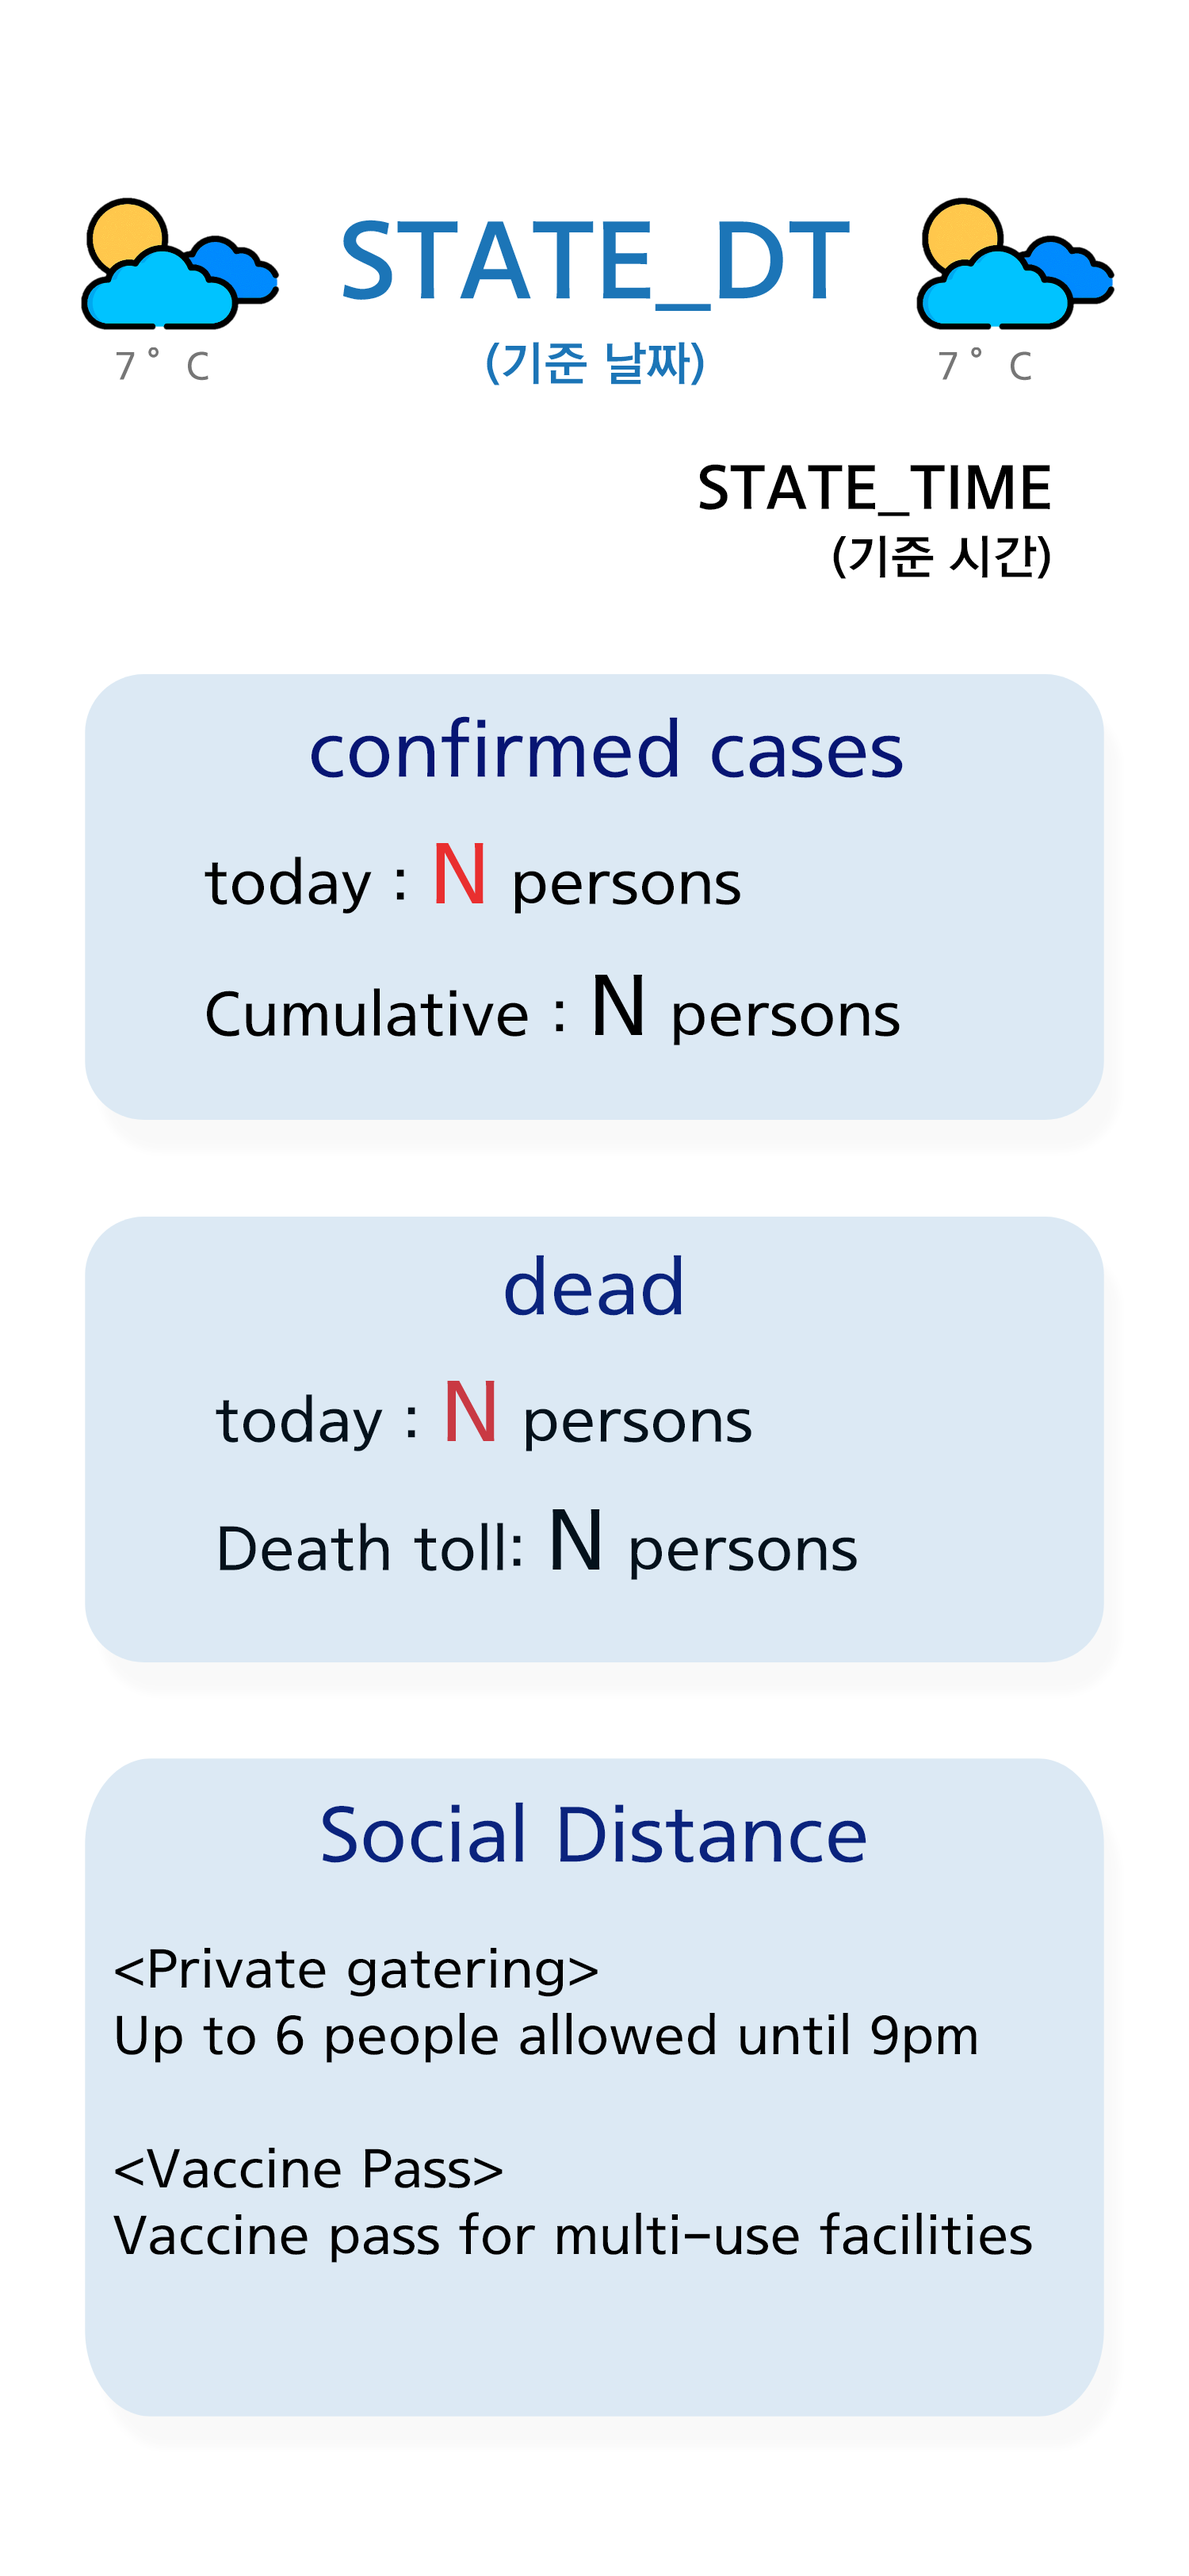
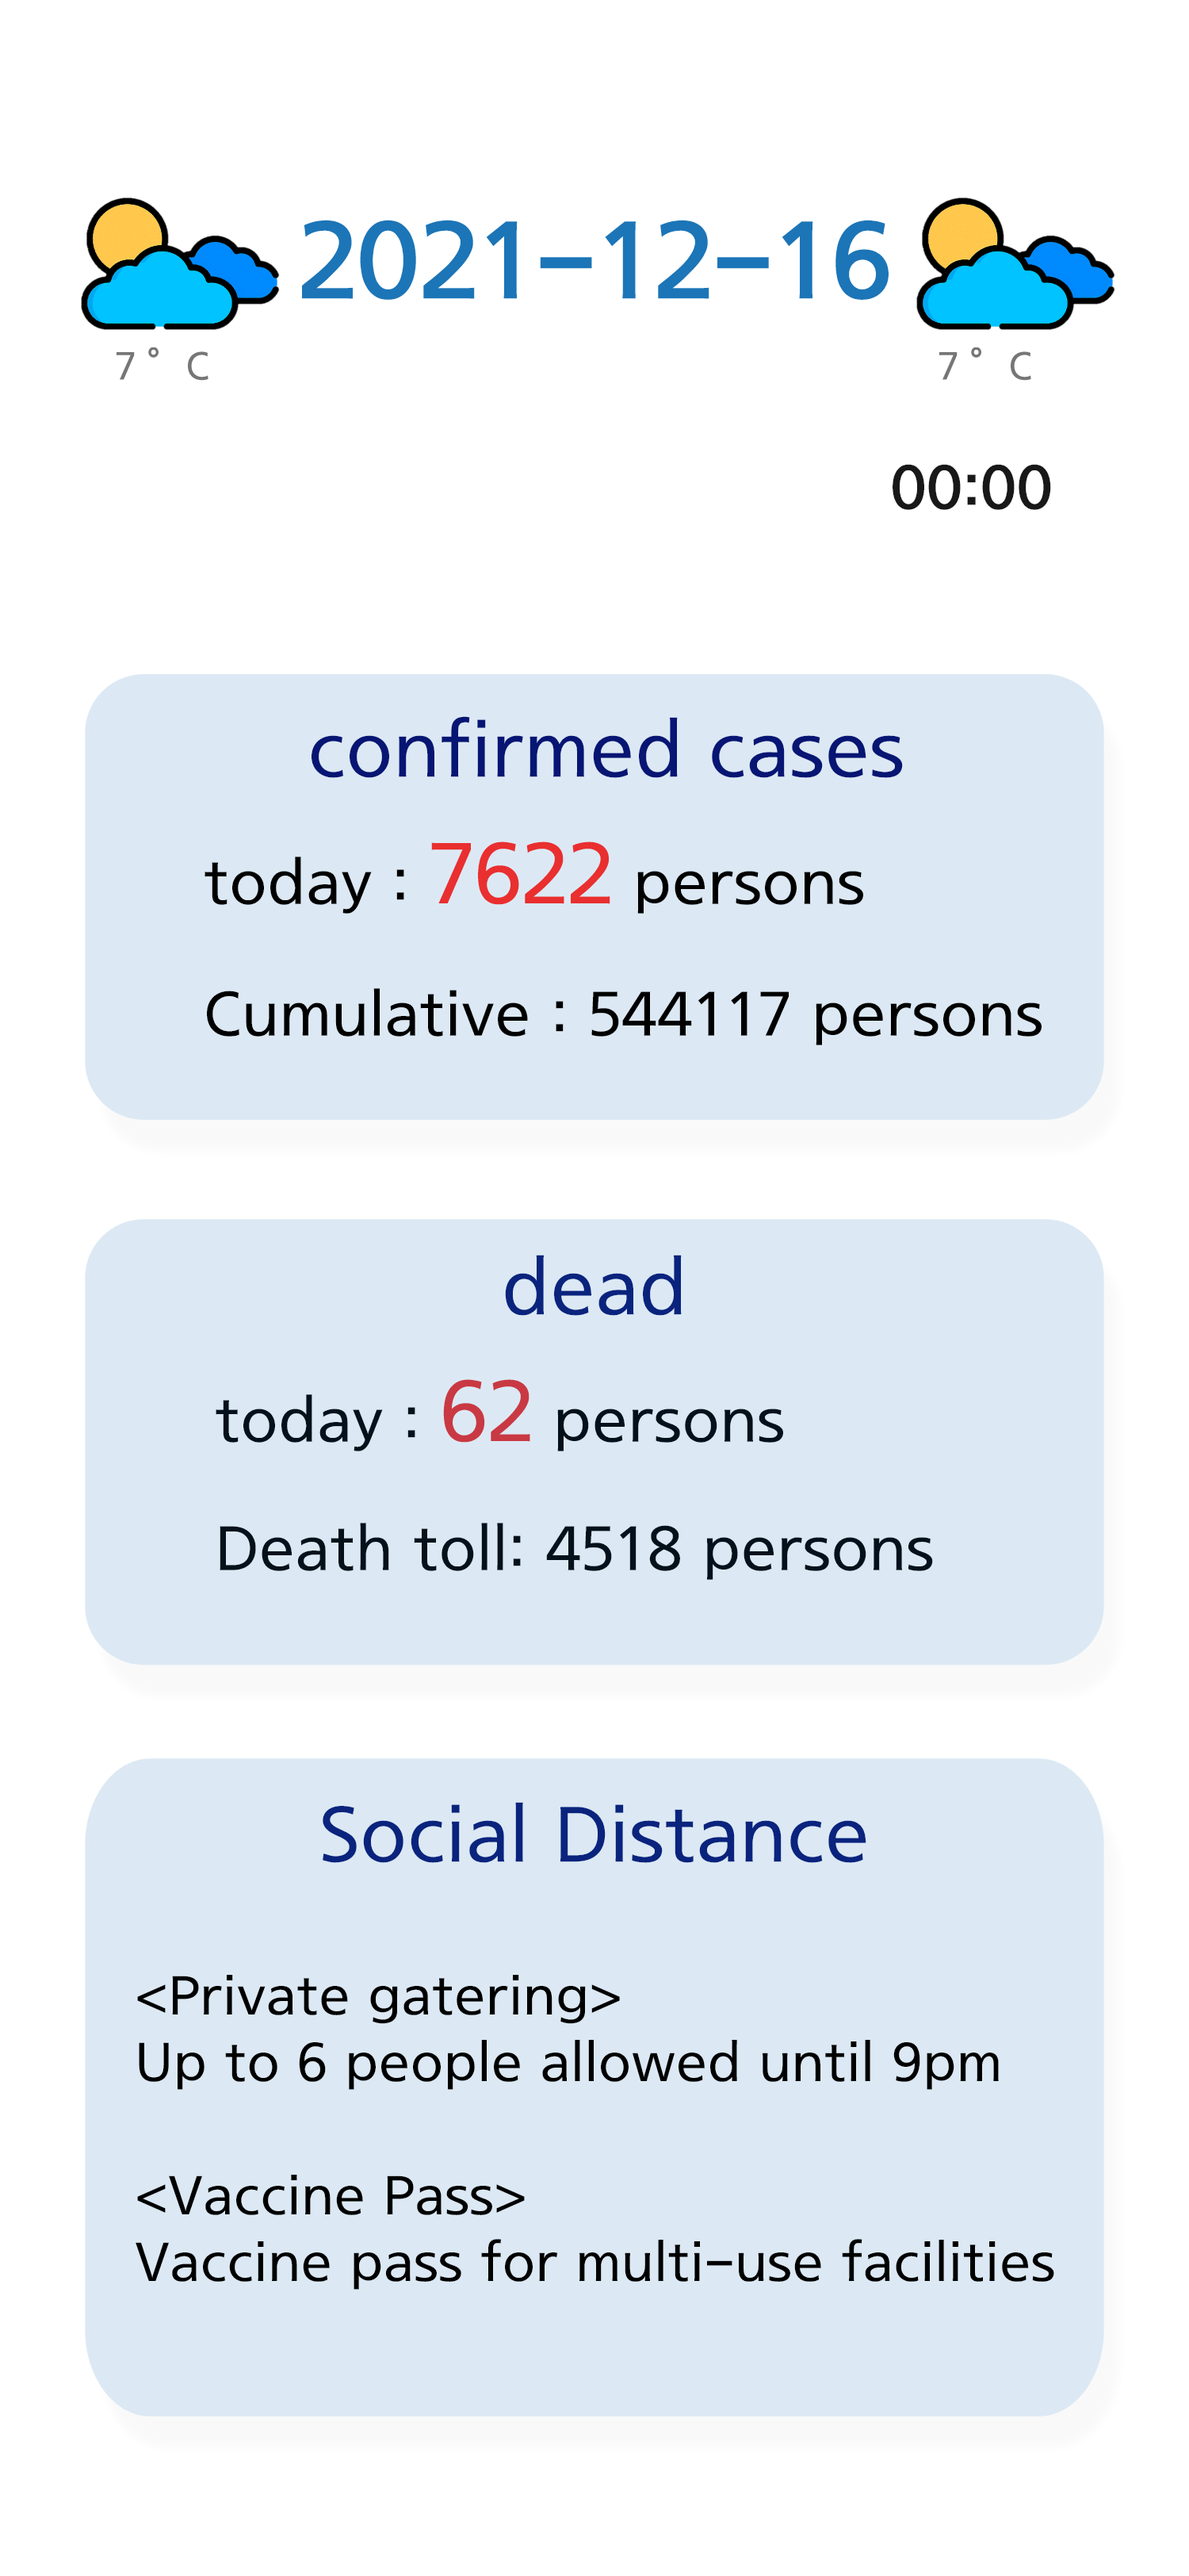
90% finish

diff --git a/TokTok/main.js b/TokTok/main.js
@@ -1,65 +1,38 @@
 import React, {useState, useEffect} from 'react';
-import { TouchableOpacity, Image, StyleSheet, Text, View } from "react-native";
+import { Dimensions, TouchableOpacity, Image, StyleSheet, Text, View } from "react-native";
 import axios from 'axios' ;
 import moment from 'moment';
+import mainImg from './src/res/images/main.png';
 import BackgroundService from 'react-native-background-actions';
 import  AsyncStorage  from "@react-native-async-storage/async-storage";
+import { KeyboardAwareScrollView } from 'react-native-keyboard-aware-scroll-view'
 import * as ReadNfc from './readnfc';
-
 const api_key = '8qB9v%2Ba1OSffsxIZm%2FGe5hCKAclrHZSULnzsQtsCuqLKf%2FGVcB9YEZ4EAiDrkuwQwoH%2F6dm3j9v70BxglJPlJA%3D%3D'
 const nowTime = moment().format('YYYYMMDD')*1;
 const Time = moment().format('YYYY-MM-DD')
 const create_date = nowTime-3;
 const end_date = nowTime;
 var parseString = require('react-native-xml2js').parseString;
+const win = Dimensions.get('window');
 
-const styles = StyleSheet.create({
-  container:{
-    flex:1,
-    justifyContent:'space-around',
-    alignItems: 'center',
-    backgroundColor:'white'
-  },
-  maintext:{
-    fontSize: 35,
-    color: '#1a73e8',
-  },
-  button:{
-    justifyContent:'center',
-    alignItems: 'center',
-    width: 250,
-    height: 40,
-    borderRadius: 20,
-    backgroundColor: '#2196f3'
-  },
-
-  input:{
-    borderWidth: 2,
-    borderRadius: 5,
-    justifyContent:'center',
-    alignItems: 'center',
-    width: 250,
-    height: 40,
-    borderRadius: 20,
-  },
-  card:{
-    width: 200,
-    height: 150,
-    justifyContent:'space-around',
-    alignItems: 'center',
-    elevation: 2,
-    backgroundColor:'#fff',
-    borderRadius: 25,
-  },
-  text: {
-    fontSize: 18,
-    textAlign: 'center',
-    color: 'white'
-}
-});
 
 function Main({navigation}){
     const [entiredata, setEntiredata] = useState('')
+
+    const styles = StyleSheet.create({
+      container:{
+        flex:1,
+        justifyContent:'center',
+        hieght:win.height,
+        alignItems: 'center',
+        backgroundColor:'white'
+      },
+      imgs:{
+        resizeMode: 'cover',
+        width: win.width,
+        height: win.height,
+      },
+    });
 
 
     const get_confirmed_case_info = async()=>{
@@ -67,18 +40,14 @@ function Main({navigation}){
         try{
           res = await axios.get(`http://openapi.data.go.kr/openapi/service/rest/Covid19/getCovid19InfStateJson?serviceKey=${api_key}&pageNo=1&numOfRows=10&startCreateDt=${create_date}&endCreateDt=${end_date}`) ;
           parseString(res.data, function(err, result){
-          setEntiredata((JSON.parse(JSON.stringify(res.data.response.body.items.item))),getData());
+          setEntiredata((JSON.parse(JSON.stringify(res.data.response.body.items.item))));
           console.log(JSON.parse(JSON.stringify(res.data)).response.body.items.item)
           })
         }catch(err){
           console.error('에러 ' + err.message);
         }
       }
-      const getData = async() =>{
-        const data = await AsyncStorage.getItem('usrinfo');
-        console.log(JSON.parse(data).name);
-        usrdata= JSON.parse(data);
-      }
+
       const startNfc = async( ) =>{
         await ReadNfc.initNfc();
         ReadNfc.readNdef();
@@ -91,30 +60,9 @@ function Main({navigation}){
 
     if(entiredata != ''){
       return(
-        <View style = {styles.container}>
-          <View>
-           <Text style = {styles.maintext}>{Time}</Text>
-           <Text
-          style={{
-            fontSize: 20,
-            textAlign: 'right',
-          }}
-        > {entiredata[0].stateTime}</Text>
-        </View>
-        <View style={styles.card}>
-          <Text style = {{fontSize : 20, color:'#1a73e8'}}>confirmed cases</Text>
-          <Text>today: <Text style={{color:'red'}}>{entiredata[0].decideCnt - entiredata[1].decideCnt}</Text></Text>
-          <Text>total: {entiredata[0].decideCnt}</Text>
-        </View>
-        <View style={styles.card}>
-          <Text style = {{fontSize : 20, color:'#1a73e8'}}>dead</Text>
-          <Text>today : <Text style={{color:'red'}}>{entiredata[0].deathCnt - entiredata[1].deathCnt}</Text></Text>
-          <Text>total : {entiredata[0].deathCnt}</Text>
-        </View>
-        <TouchableOpacity style={styles.button} onPress={()=>navigation.push('RoleSelect')}>
-          <Text style = {styles.text}>Logout</Text>
-        </TouchableOpacity>
-        </View>
+        <KeyboardAwareScrollView contentContainerStyle={styles.container}>
+        <Image style={styles.imgs} source={mainImg}/>
+      </KeyboardAwareScrollView>
     )
     }
    return(<Text>Loading...</Text>)

diff --git a/TokTok/readnfc.js b/TokTok/readnfc.js
@@ -1,8 +1,8 @@
 import React, {useState, useEffect} from 'react';
 import { TouchableOpacity, Image, StyleSheet, Text, View } from "react-native";
 import NfcManager, {NfcEvents,Ndef} from 'react-native-nfc-manager';
+import axios from 'axois';
 import  AsyncStorage  from "@react-native-async-storage/async-storage";
-
 
 export async  function initNfc() {
     await NfcManager.start();
@@ -11,7 +11,6 @@ export async  function initNfc() {
  export function readNdef() {
 
     let usrdata;
-
     const cleanUp = () => {
       NfcManager.setEventListener(NfcEvents.DiscoverTag, null);
       NfcManager.setEventListener(NfcEvents.SessionClosed, null);
@@ -23,20 +22,37 @@ export async  function initNfc() {
       const getData = async() =>{
         const data = await AsyncStorage.getItem('usrinfo');
         usrdata= JSON.parse(data);
-        const entireData = {
-          'name': 'Team 7',
-          'phone': '010-0000-0000',
-          'address':'대전광역시 대덕구 한남로 70 한남대학교',
-          'market-name':'한남 파스타',
-          'market-address':'대전광역시 대덕구 한남로 70 한남대학교'
-        }
-        console.log(entireData);
+        return usrdata;
+
       }
-      getData();
-      NfcManager.setEventListener(NfcEvents.DiscoverTag, (tag) => {
+      NfcManager.setEventListener(NfcEvents.DiscoverTag, async(tag) => {
+        const usrdata = await getData();
+        console.log(usrdata);
+
+        try{
+          res = await axios.post(``,entireData) ;
+          parseString(res.data, function(err, result){
+          setEntiredata((JSON.parse(JSON.stringify(res.data.response.body.items.item))));
+          console.log(JSON.parse(JSON.stringify(res.data)).response.body.items.item)
+          })
+        }catch(err){
+          console.error('에러 ' + err.message);
+        }
+
+        const entireData = {
+          'name': usrdata.name,
+          'phone': usrdata.phonenumber,
+          'address':usrdata.address,
+          'marketname': '',
+          'marketaddress': ''
+        }
         tagFound = tag;
         resolve(tagFound);
-        console.log(Ndef.text.decodePayload(tagFound.ndefMessage[0].payload));
+        tagFound = JSON.parse(Ndef.text.decodePayload(tagFound.ndefMessage[0].payload));
+
+        entireData.marketaddress = tagFound.address;
+        entireData.marketname= tagFound.name;
+        console.log(entireData);
         initNfc();
         readNdef();
         NfcManager.registerTagEvent().catch(() => 0);

diff --git a/TokTok/writenfc.js b/TokTok/writenfc.js
@@ -27,8 +27,8 @@ export async function writeNdef() {
       alertMessage: 'Ready to write some NDEF',
     });
 
-    const bytes = Ndef.encodeMessage([Ndef.textRecord("{name: 한남대 파스타, address: 대전광역시 대덕구 한남로 70 한남대학교}")]);
-    console.log(Ndef.textRecord(entireData));
+    const bytes = Ndef.encodeMessage([Ndef.textRecord(JSON.stringify(entireData))]);
+    console.log(Ndef.textRecord(JSON.stringify(entireData)));
 
     if (bytes) {
       await NfcManager.ndefHandler // Step2

diff --git a/TokTok/enter_personal_info.js b/TokTok/enter_personal_info.js
@@ -4,6 +4,7 @@ import AsyncStorage from "@react-native-async-storage/async-storage";
 import { KeyboardAwareScrollView } from 'react-native-keyboard-aware-scroll-view'
 import PersonalImage from './src/res/images/personalimg.jpg';
 
+
 const win = Dimensions.get('window');
 
 const styles = StyleSheet.create({
